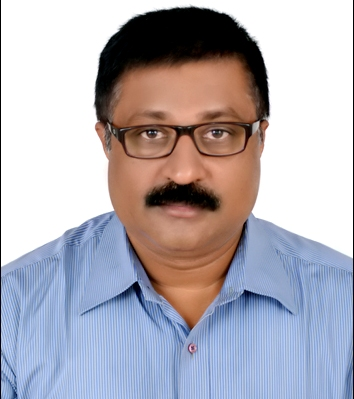
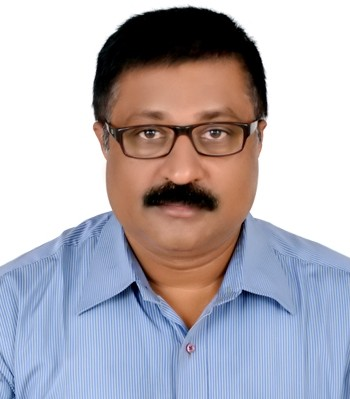
Frame the profile photo and trim its black edge lines

diff --git a/static/css/site.css b/static/css/site.css
@@ -112,11 +112,14 @@ code, pre { font-family: var(--mono); font-size: .88em; }
 .three p { margin: 0; color: var(--muted); }
 .num { display: grid; place-items: center; width: 32px; height: 32px; border-radius: 50%; background: var(--accent-soft); color: var(--accent); font-weight: 700; }
 .about-teaser > div { display: flex; gap: 24px; align-items: center; padding: 28px; border-radius: var(--radius); background: var(--surface-2); }
-.about-teaser img { flex: none; width: 120px; height: auto; border-radius: var(--radius); }
+.about-teaser .photo-frame { flex: none; width: 128px; padding: 5px; }
 .about-teaser h2 { margin: 6px 0; }
 
-.profile { display: grid; grid-template-columns: 200px 1fr; gap: 28px; align-items: start; margin: 8px 0 32px; padding: 24px; background: var(--surface); border: 1px solid var(--line); border-radius: var(--radius); }
-.profile img { width: 100%; height: auto; border-radius: var(--radius); }
+/* Photo mat: an accent-tinted frame so a white-background portrait doesn't bleed into the page. */
+.photo-frame { padding: 8px; border-radius: 18px; background: linear-gradient(145deg, var(--accent), var(--accent-soft)); box-shadow: 0 12px 28px rgba(0, 0, 0, .14); }
+.photo-frame img { display: block; width: 100%; height: auto; border-radius: 12px; border: 3px solid var(--surface); }
+
+.profile { display: grid; grid-template-columns: 210px 1fr; gap: 28px; align-items: start; margin: 8px 0 32px; padding: 24px; background: var(--surface); border: 1px solid var(--line); border-radius: var(--radius); }
 .profile p { margin: 0; }
 .profile-name { font-size: 1.4rem; font-weight: 700; }
 .profile-role { color: var(--muted); margin-top: 4px !important; }
@@ -230,7 +233,7 @@ code, pre { font-family: var(--mono); font-size: .88em; }
   .footer-inner p:last-child { text-align: left; }
   .prose td:first-child { white-space: normal; }
   .profile { grid-template-columns: 1fr; padding: 18px; }
-  .profile img { max-width: 180px; }
+  .profile .photo-frame { max-width: 190px; }
   .about-teaser > div { flex-direction: column; align-items: flex-start; }
 }
 @media print {

diff --git a/templates/home.html b/templates/home.html
@@ -35,7 +35,7 @@
 
 <section class="wrap section about-teaser">
   <div>
-    {% if site.author.photo %}<img src="{{ site.author.photo }}" alt="{{ site.author.title }} {{ site.author.name }}" width="120" height="135">{% endif %}
+    {% if site.author.photo %}<div class="photo-frame"><img src="{{ site.author.photo }}" alt="{{ site.author.title }} {{ site.author.name }}" width="350" height="399"></div>{% endif %}
     <div>
       <p class="eyebrow">About</p>
       <h2>{{ site.author.title }} {{ site.author.name }}</h2>

diff --git a/content/about.md b/content/about.md
@@ -4,7 +4,7 @@ description: "Dr. Asesh Kumar Tripathy, Associate Professor of Computer Science 
 ---
 
 <div class="profile">
-<img src="/static/img/asesh-tripathy.jpg" alt="Dr. Asesh Kumar Tripathy" width="354" height="399">
+<div class="photo-frame"><img src="/static/img/asesh-tripathy.jpg" alt="Dr. Asesh Kumar Tripathy" width="350" height="399"></div>
 <div>
 <p class="profile-name">Dr. Asesh Kumar Tripathy</p>
 <p class="profile-role">Associate Professor, Department of Computer Science and Engineering<br>Koneru Lakshmaiah Education Foundation (K L Deemed to be University), Vaddeswaram, Andhra Pradesh, India</p>
